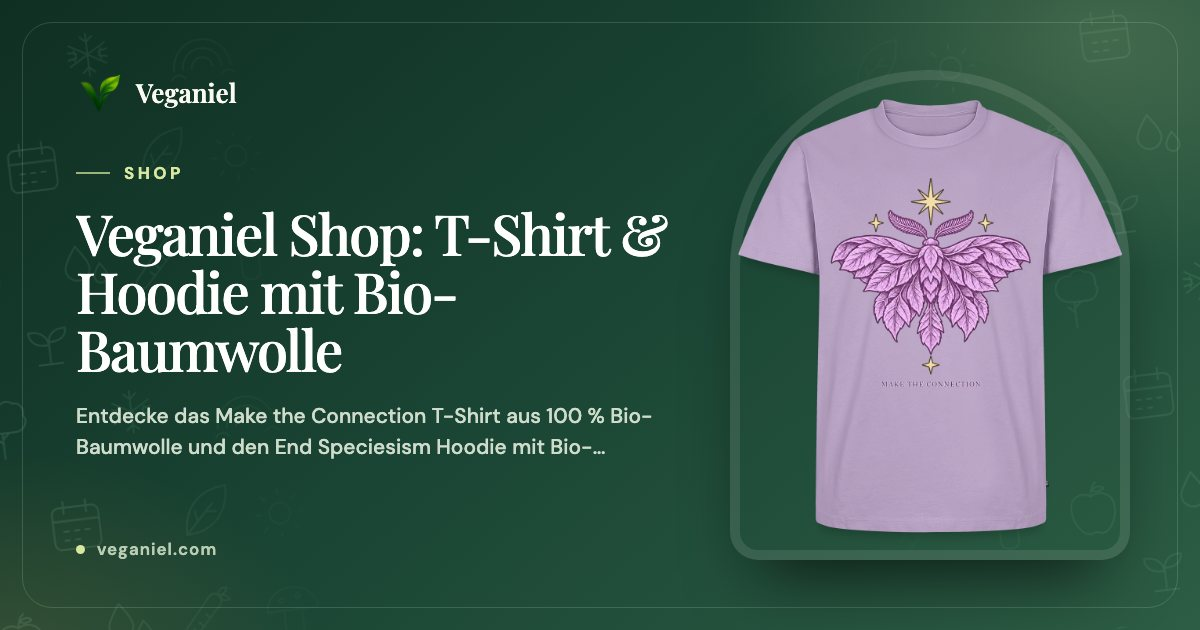
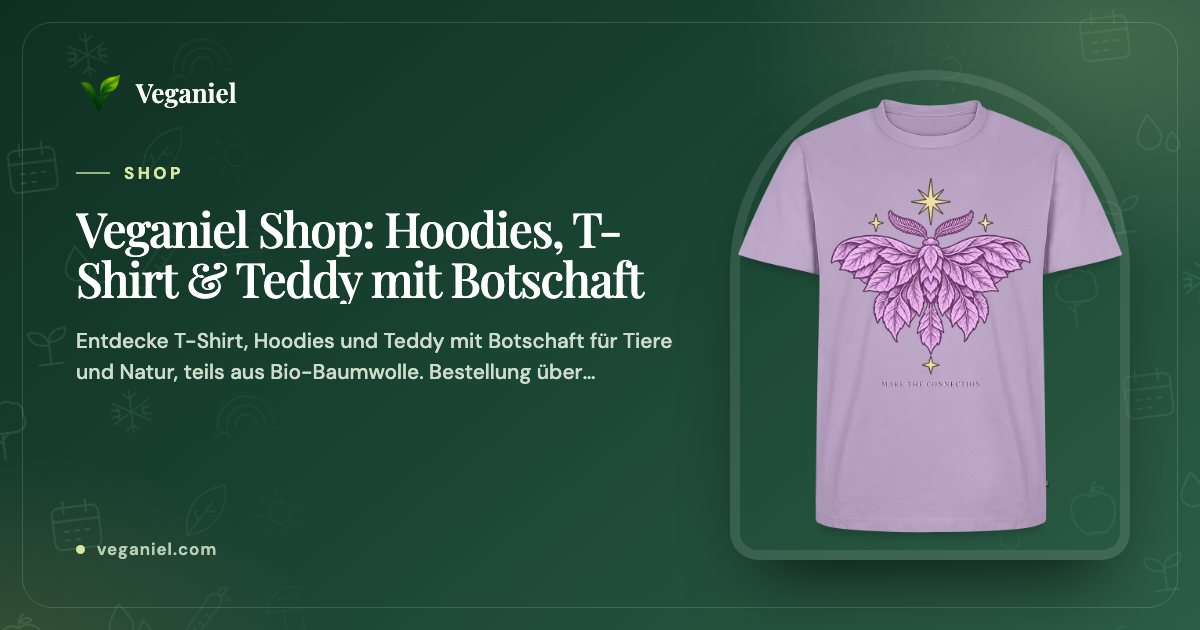
Shop: describe the whole collection instead of "two designs"

Changed region(s): [[0.0617, 0.3317, 0.555, 0.6032], [0.0617, 0.6333, 0.555, 0.7238]]

diff --git a/daniel-suckrow-website/shop.html b/daniel-suckrow-website/shop.html
@@ -3,8 +3,8 @@
 <head><meta name="google-adsense-account" content="ca-pub-2996299966418101">
   <meta charset="utf-8">
   <meta name="viewport" content="width=device-width, initial-scale=1">
-  <title>Veganiel Shop: T-Shirt &amp; Hoodie mit Bio-Baumwolle</title>
-  <meta name="description" content="Entdecke das Make the Connection T-Shirt aus 100 % Bio-Baumwolle und den End Speciesism Hoodie mit Bio-Baumwolle. Bestellung über Spreadshop.">
+  <title>Veganiel Shop: Hoodies, T-Shirt &amp; Teddy mit Botschaft</title>
+  <meta name="description" content="Entdecke T-Shirt, Hoodies und Teddy mit Botschaft für Tiere und Natur, teils aus Bio-Baumwolle. Bestellung über Spreadshop.">
   <link rel="canonical" href="https://veganiel.com/shop.html">
   <!-- seo:share -->
   <link rel="alternate" hreflang="de" href="https://veganiel.com/shop.html">
@@ -15,19 +15,19 @@
   <meta property="og:image:type" content="image/jpeg">
   <meta property="og:image:width" content="1200">
   <meta property="og:image:height" content="630">
-  <meta property="og:image:alt" content="Vorschaubild: Veganiel Shop: T-Shirt &amp; Hoodie mit Bio-Baumwolle">
+  <meta property="og:image:alt" content="Vorschaubild: Veganiel Shop: Hoodies, T-Shirt &amp; Teddy mit Botschaft">
   <meta name="twitter:card" content="summary_large_image">
   <meta name="twitter:image" content="https://veganiel.com/og/shop.jpg">
-  <meta name="twitter:image:alt" content="Vorschaubild: Veganiel Shop: T-Shirt &amp; Hoodie mit Bio-Baumwolle">
+  <meta name="twitter:image:alt" content="Vorschaubild: Veganiel Shop: Hoodies, T-Shirt &amp; Teddy mit Botschaft">
   
   <meta property="og:locale" content="de_DE">
-  <meta property="og:title" content="Veganiel Shop: T-Shirt &amp; Hoodie mit Bio-Baumwolle">
-  <meta property="og:description" content="Entdecke das Make the Connection T-Shirt aus 100 % Bio-Baumwolle und den End Speciesism Hoodie mit Bio-Baumwolle. Bestellung über Spreadshop.">
+  <meta property="og:title" content="Veganiel Shop: Hoodies, T-Shirt &amp; Teddy mit Botschaft">
+  <meta property="og:description" content="Entdecke T-Shirt, Hoodies und Teddy mit Botschaft für Tiere und Natur, teils aus Bio-Baumwolle. Bestellung über Spreadshop.">
   <meta property="og:url" content="https://veganiel.com/shop.html">
   <meta property="og:type" content="website">
   <meta property="og:site_name" content="Veganiel">
-  <meta name="twitter:title" content="Veganiel Shop: T-Shirt &amp; Hoodie mit Bio-Baumwolle">
-  <meta name="twitter:description" content="Entdecke das Make the Connection T-Shirt aus 100 % Bio-Baumwolle und den End Speciesism Hoodie mit Bio-Baumwolle. Bestellung über Spreadshop.">
+  <meta name="twitter:title" content="Veganiel Shop: Hoodies, T-Shirt &amp; Teddy mit Botschaft">
+  <meta name="twitter:description" content="Entdecke T-Shirt, Hoodies und Teddy mit Botschaft für Tiere und Natur, teils aus Bio-Baumwolle. Bestellung über Spreadshop.">
   <link rel="icon" type="image/png" href="veganiel-logo-32.png">
   <link rel="stylesheet" href="branding.css?v=2">
   <link rel="stylesheet" href="styles/global-nav.css?v=6">
@@ -49,7 +49,7 @@
       <div class="hero-copy">
         <p class="shop-kicker"><span class="status-dot"></span> Veganiels Shop · Die Kollektion</p>
         <h1 id="shop-title">Zeig Haltung.<br><em>Mit dem, was <br>du trägst.</em></h1>
-        <p class="hero-description">Für die Verbindung zur Natur. Für einen anderen Blick auf Tiere. Zwei Designs, die deine Werte sichtbar machen.</p>
+        <p class="hero-description">Für die Verbindung zur Natur. Für einen anderen Blick auf Tiere. Motive, die deine Werte sichtbar machen – auf Shirt, Hoodie und Kuscheltier.</p>
         <a class="shop-button hero-button" href="#kollektion">Kollektion entdecken <span aria-hidden="true">↘</span></a>
         <div class="hero-footnote"><span class="small-leaf" aria-hidden="true">❧</span><p>Kleidung mit Bio-Baumwolle.<br>Druck &amp; Versand durch Spreadshop.</p></div>
       </div>
@@ -66,7 +66,7 @@
           <img src="assets/shop/make-the-connection-spreadshop.webp" width="1200" height="1200" alt="Make the Connection Bio-T-Shirt in Lavendel mit Blattmotte und Sternen" fetchpriority="high" decoding="async">
           <span class="duo-label"><strong translate="no">Make the Connection</strong><span aria-hidden="true">↗</span></span>
         </a>
-        <span class="duo-caption shop-kicker">Zwei Motive. Eine Haltung.</span>
+        <span class="duo-caption shop-kicker">Verschiedene Motive. Eine Haltung.</span>
       </div>
     </section>
     </div>
@@ -163,7 +163,7 @@
         </article>
       </div>
       <ul class="shop-benefits" aria-label="Gut zu wissen">
-        <li><svg width="22" height="22" viewBox="0 0 24 24" fill="none" stroke="currentColor" stroke-width="1.6" aria-hidden="true"><path d="M12 21V11M12 15c-5 .3-7.5-3-7-6.5 4 0 7.4 2.4 7 6.5Zm0-3c4.8.4 7.3-3.3 6.6-6.8C14.7 5.5 11.7 8 12 12Z"/></svg><div><strong>Mit Bio-Baumwolle</strong>T-Shirt aus 100 % Bio-Baumwolle, Hoodie mit Bio-Baumwolle.</div></li>
+        <li><svg width="22" height="22" viewBox="0 0 24 24" fill="none" stroke="currentColor" stroke-width="1.6" aria-hidden="true"><path d="M12 21V11M12 15c-5 .3-7.5-3-7-6.5 4 0 7.4 2.4 7 6.5Zm0-3c4.8.4 7.3-3.3 6.6-6.8C14.7 5.5 11.7 8 12 12Z"/></svg><div><strong>Mit Bio-Baumwolle</strong>T-Shirt aus 100 % Bio-Baumwolle, Hoodies mit Bio-Baumwolle.</div></li>
         <li><svg width="22" height="22" viewBox="0 0 24 24" fill="none" stroke="currentColor" stroke-width="1.6" aria-hidden="true"><path d="M3 7h11v9H3zM14 10h4l3 3v3h-7z"/><circle cx="7" cy="17.5" r="1.8"/><circle cx="17" cy="17.5" r="1.8"/></svg><div><strong>Druck &amp; Versand durch Spreadshop</strong>Bezahlung, Druck und Versand laufen direkt über Spreadshop.</div></li>
         <li><svg width="22" height="22" viewBox="0 0 24 24" fill="none" stroke="currentColor" stroke-width="1.6" aria-hidden="true"><path d="M4 8l4-4h8l4 4-3 3v9H7v-9z"/></svg><div><strong>Größe &amp; Farbe frei wählen</strong>Mit Maßtabelle auf der jeweiligen Produktseite.</div></li>
       </ul>
@@ -172,7 +172,7 @@
 
     <section class="shop-manifesto" aria-labelledby="manifesto-title">
       <div class="shop-shell manifesto-inner">
-        <div class="manifesto-copy"><p class="shop-kicker">Was du trägst, kann etwas sagen.</p><h2 id="manifesto-title">Mehr Verbindung.<br><em>Mehr Mitgefühl.</em></h2><p>Eine Motte aus Blättern. Tiere, die Grenzen aufbrechen. Diese Kollektion bringt zwei Gedanken zusammen: Wir sind Teil der Natur. Und Mitgefühl hört nicht bei unserer eigenen Art auf.</p></div>
+        <div class="manifesto-copy"><p class="shop-kicker">Was du trägst, kann etwas sagen.</p><h2 id="manifesto-title">Mehr Verbindung.<br><em>Mehr Mitgefühl.</em></h2><p>Eine Motte aus Blättern. Tiere, die Grenzen aufbrechen. Mensch und Kuh auf Augenhöhe. Ein Teddy für die Natur. Die Kollektion bringt zwei Gedanken zusammen: Wir sind Teil der Natur. Und Mitgefühl hört nicht bei unserer eigenen Art auf.</p></div>
         <div class="manifesto-art" aria-hidden="true"><span class="art-orbit"></span><svg viewBox="0 0 240 240" fill="none"><path d="M120 191V92M120 151C57 155 38 107 46 75C94 76 125 105 120 151ZM120 121C181 127 205 77 196 44C146 48 116 83 120 121Z" stroke="currentColor" stroke-width="2"/><path d="m120 151-54-55m54 25 55-57" stroke="currentColor"/><circle cx="120" cy="120" r="108" stroke="currentColor" stroke-dasharray="2 9"/></svg><span class="art-star">✳</span><span class="art-caption shop-kicker" translate="no">Kind by nature.</span></div>
       </div>
     </section>
@@ -190,7 +190,7 @@
       <div><p class="shop-kicker">Gut zu wissen</p><h2 id="faq-title">Noch eine <br><em>Frage?</em></h2></div>
       <div class="faq-list">
         <details><summary>Wo bestelle ich mein Lieblingsstück?<span aria-hidden="true">+</span></summary><p>Die Produktbuttons führen direkt zu Veganiels Shop bei Spreadshop. Dort wählst du Größe und Farbe und schließt deinen Kauf ab. Zahlung, Druck, Versand und Fragen zur Bestellung übernimmt Spreadshop.</p></details>
-        <details><summary>Was bedeutet hier Bio-Qualität?<span aria-hidden="true">+</span></summary><p>Das Make the Connection T-Shirt besteht aus 100 % Bio-Baumwolle. Der End Speciesism Hoodie enthält Bio-Baumwolle. Die genaue Materialzusammensetzung und Pflegehinweise findest du auf der jeweiligen Produktseite im Spreadshop.</p></details>
+        <details><summary>Was bedeutet hier Bio-Qualität?<span aria-hidden="true">+</span></summary><p>Das Make the Connection T-Shirt besteht aus 100 % Bio-Baumwolle. Die Hoodies End Speciesism und Not the Same but Equal enthalten Bio-Baumwolle. Die genaue Materialzusammensetzung und Pflegehinweise findest du auf der jeweiligen Produktseite im Spreadshop.</p></details>
         <details><summary>Wie finde ich die richtige Größe?<span aria-hidden="true">+</span></summary><p>Auf der Produktseite im Spreadshop findest du die verfügbaren Größen und eine Maßtabelle. Vergleiche die Maße am besten mit einem Kleidungsstück, das dir bereits gut passt.</p></details>
         <details><summary>Wohin wird geliefert und was kostet der Versand?<span aria-hidden="true">+</span></summary><p>Die verfügbaren Lieferländer, Lieferzeiten und Versandkosten werden dir im Spreadshop angezeigt. Sie hängen von deiner Lieferadresse und Bestellung ab.</p></details>
       </div>

diff --git a/daniel-suckrow-website/en/shop.html b/daniel-suckrow-website/en/shop.html
@@ -3,8 +3,8 @@
 <head><meta name="google-adsense-account" content="ca-pub-2996299966418101">
   <meta charset="utf-8">
   <meta name="viewport" content="width=device-width, initial-scale=1">
-  <title>Veganiel Shop: Organic Cotton T-shirt &amp; Hoodie</title>
-  <meta name="description" content="Discover the Make the Connection T-shirt made from 100% organic cotton and the End Speciesism hoodie with organic cotton. Ordered via Spreadshop.">
+  <title>Veganiel Shop: hoodies, T-shirt &amp; teddy with a message</title>
+  <meta name="description" content="Discover a T-shirt, hoodies and a teddy with a message for animals and nature, partly made with organic cotton. Ordered via Spreadshop.">
   <link rel="canonical" href="https://veganiel.com/en/shop.html">
   <!-- seo:share -->
   <link rel="alternate" hreflang="de" href="https://veganiel.com/shop.html">
@@ -15,19 +15,19 @@
   <meta property="og:image:type" content="image/jpeg">
   <meta property="og:image:width" content="1200">
   <meta property="og:image:height" content="630">
-  <meta property="og:image:alt" content="Preview image: Veganiel Shop: Organic Cotton T-shirt &amp; Hoodie">
+  <meta property="og:image:alt" content="Preview image: Veganiel Shop: hoodies, T-shirt &amp; teddy with a message">
   <meta name="twitter:card" content="summary_large_image">
   <meta name="twitter:image" content="https://veganiel.com/og/shop-en.jpg">
-  <meta name="twitter:image:alt" content="Preview image: Veganiel Shop: Organic Cotton T-shirt &amp; Hoodie">
+  <meta name="twitter:image:alt" content="Preview image: Veganiel Shop: hoodies, T-shirt &amp; teddy with a message">
   
   <meta property="og:locale" content="en_GB">
-  <meta property="og:title" content="Veganiel Shop: Organic Cotton T-shirt &amp; Hoodie">
-  <meta property="og:description" content="Discover the Make the Connection T-shirt made from 100% organic cotton and the End Speciesism hoodie with organic cotton. Ordered via Spreadshop.">
+  <meta property="og:title" content="Veganiel Shop: hoodies, T-shirt &amp; teddy with a message">
+  <meta property="og:description" content="Discover a T-shirt, hoodies and a teddy with a message for animals and nature, partly made with organic cotton. Ordered via Spreadshop.">
   <meta property="og:url" content="https://veganiel.com/en/shop.html">
   <meta property="og:type" content="website">
   <meta property="og:site_name" content="Veganiel">
-  <meta name="twitter:title" content="Veganiel Shop: Organic Cotton T-shirt &amp; Hoodie">
-  <meta name="twitter:description" content="Discover the Make the Connection T-shirt made from 100% organic cotton and the End Speciesism hoodie with organic cotton. Ordered via Spreadshop.">
+  <meta name="twitter:title" content="Veganiel Shop: hoodies, T-shirt &amp; teddy with a message">
+  <meta name="twitter:description" content="Discover a T-shirt, hoodies and a teddy with a message for animals and nature, partly made with organic cotton. Ordered via Spreadshop.">
   <link rel="icon" type="image/png" href="../veganiel-logo-32.png">
   <link rel="stylesheet" href="../branding.css?v=2">
   <link rel="stylesheet" href="../styles/global-nav.css?v=6">
@@ -49,7 +49,7 @@
       <div class="hero-copy">
         <p class="shop-kicker"><span class="status-dot"></span> Veganiel’s Shop · The collection</p>
         <h1 id="shop-title">Wear your values.<br><em>In what <br>you wear.</em></h1>
-        <p class="hero-description">For a connection to nature. For a different way of seeing animals. Two designs that make your values visible.</p>
+        <p class="hero-description">For a connection with nature. For a different view of animals. Designs that make your values visible – on a shirt, a hoodie and a plush toy.</p>
         <a class="shop-button hero-button" href="#kollektion">Explore the collection <span aria-hidden="true">↘</span></a>
         <div class="hero-footnote"><span class="small-leaf" aria-hidden="true">❧</span><p>Clothing with organic cotton.<br>Printed &amp; shipped by Spreadshop.</p></div>
       </div>
@@ -66,7 +66,7 @@
           <img src="../assets/shop/make-the-connection-spreadshop.webp" width="1200" height="1200" alt="Make the Connection organic T-shirt in lavender with a leaf moth and stars" fetchpriority="high" decoding="async">
           <span class="duo-label"><strong translate="no">Make the Connection</strong><span aria-hidden="true">↗</span></span>
         </a>
-        <span class="duo-caption shop-kicker">Two designs. One shared belief.</span>
+        <span class="duo-caption shop-kicker">Different designs. One attitude.</span>
       </div>
     </section>
     </div>
@@ -163,7 +163,7 @@
         </article>
       </div>
       <ul class="shop-benefits" aria-label="Good to know">
-        <li><svg width="22" height="22" viewBox="0 0 24 24" fill="none" stroke="currentColor" stroke-width="1.6" aria-hidden="true"><path d="M12 21V11M12 15c-5 .3-7.5-3-7-6.5 4 0 7.4 2.4 7 6.5Zm0-3c4.8.4 7.3-3.3 6.6-6.8C14.7 5.5 11.7 8 12 12Z"/></svg><div><strong>Made with organic cotton</strong>T-shirt made of 100% organic cotton, hoodie with organic cotton.</div></li>
+        <li><svg width="22" height="22" viewBox="0 0 24 24" fill="none" stroke="currentColor" stroke-width="1.6" aria-hidden="true"><path d="M12 21V11M12 15c-5 .3-7.5-3-7-6.5 4 0 7.4 2.4 7 6.5Zm0-3c4.8.4 7.3-3.3 6.6-6.8C14.7 5.5 11.7 8 12 12Z"/></svg><div><strong>Made with organic cotton</strong>T-shirt made of 100 % organic cotton, hoodies with organic cotton.</div></li>
         <li><svg width="22" height="22" viewBox="0 0 24 24" fill="none" stroke="currentColor" stroke-width="1.6" aria-hidden="true"><path d="M3 7h11v9H3zM14 10h4l3 3v3h-7z"/><circle cx="7" cy="17.5" r="1.8"/><circle cx="17" cy="17.5" r="1.8"/></svg><div><strong>Printing &amp; shipping by Spreadshop</strong>Payment, printing and shipping are handled directly by Spreadshop.</div></li>
         <li><svg width="22" height="22" viewBox="0 0 24 24" fill="none" stroke="currentColor" stroke-width="1.6" aria-hidden="true"><path d="M4 8l4-4h8l4 4-3 3v9H7v-9z"/></svg><div><strong>Choose your size &amp; colour</strong>With a size chart on each product page.</div></li>
       </ul>
@@ -172,7 +172,7 @@
 
     <section class="shop-manifesto" aria-labelledby="manifesto-title">
       <div class="shop-shell manifesto-inner">
-        <div class="manifesto-copy"><p class="shop-kicker">What you wear can say something.</p><h2 id="manifesto-title">More connection.<br><em>More compassion.</em></h2><p>A moth made of leaves. Animals breaking through barriers. This collection brings two ideas together: we are part of nature, and compassion reaches beyond our own species.</p></div>
+        <div class="manifesto-copy"><p class="shop-kicker">What you wear can say something.</p><h2 id="manifesto-title">More connection.<br><em>More compassion.</em></h2><p>A moth made of leaves. Animals breaking through boundaries. A human and a cow meeting as equals. A teddy for nature. The collection brings two thoughts together: we are part of nature. And compassion does not stop at our own species.</p></div>
         <div class="manifesto-art" aria-hidden="true"><span class="art-orbit"></span><svg viewBox="0 0 240 240" fill="none"><path d="M120 191V92M120 151C57 155 38 107 46 75C94 76 125 105 120 151ZM120 121C181 127 205 77 196 44C146 48 116 83 120 121Z" stroke="currentColor" stroke-width="2"/><path d="m120 151-54-55m54 25 55-57" stroke="currentColor"/><circle cx="120" cy="120" r="108" stroke="currentColor" stroke-dasharray="2 9"/></svg><span class="art-star">✳</span><span class="art-caption shop-kicker" translate="no">Kind by nature.</span></div>
       </div>
     </section>
@@ -190,7 +190,7 @@
       <div><p class="shop-kicker">Good to know</p><h2 id="faq-title">Have a <br><em>question?</em></h2></div>
       <div class="faq-list">
         <details><summary>Where can I order my favourite piece?<span aria-hidden="true">+</span></summary><p>The product buttons take you directly to Veganiel’s Shop on Spreadshop. Choose your size and colour and complete your purchase there. Spreadshop handles payment, printing, shipping and order enquiries.</p></details>
-        <details><summary>What does organic quality mean here?<span aria-hidden="true">+</span></summary><p>The Make the Connection T-shirt is made from 100% organic cotton. The End Speciesism hoodie contains organic cotton. You can find the exact fabric composition and care instructions on each Spreadshop product page.</p></details>
+        <details><summary>What does organic quality mean here?<span aria-hidden="true">+</span></summary><p>The Make the Connection T-shirt is made of 100 % organic cotton. The End Speciesism and Not the Same but Equal hoodies contain organic cotton. You will find the exact material composition and care instructions on each product page in the Spreadshop.</p></details>
         <details><summary>How do I find the right size?<span aria-hidden="true">+</span></summary><p>Each Spreadshop product page lists available sizes and a size chart. Compare the measurements with a garment that already fits you well.</p></details>
         <details><summary>Where do you deliver and how much is shipping?<span aria-hidden="true">+</span></summary><p>Spreadshop shows the available delivery countries, delivery times and shipping costs. These depend on your delivery address and order.</p></details>
       </div>
